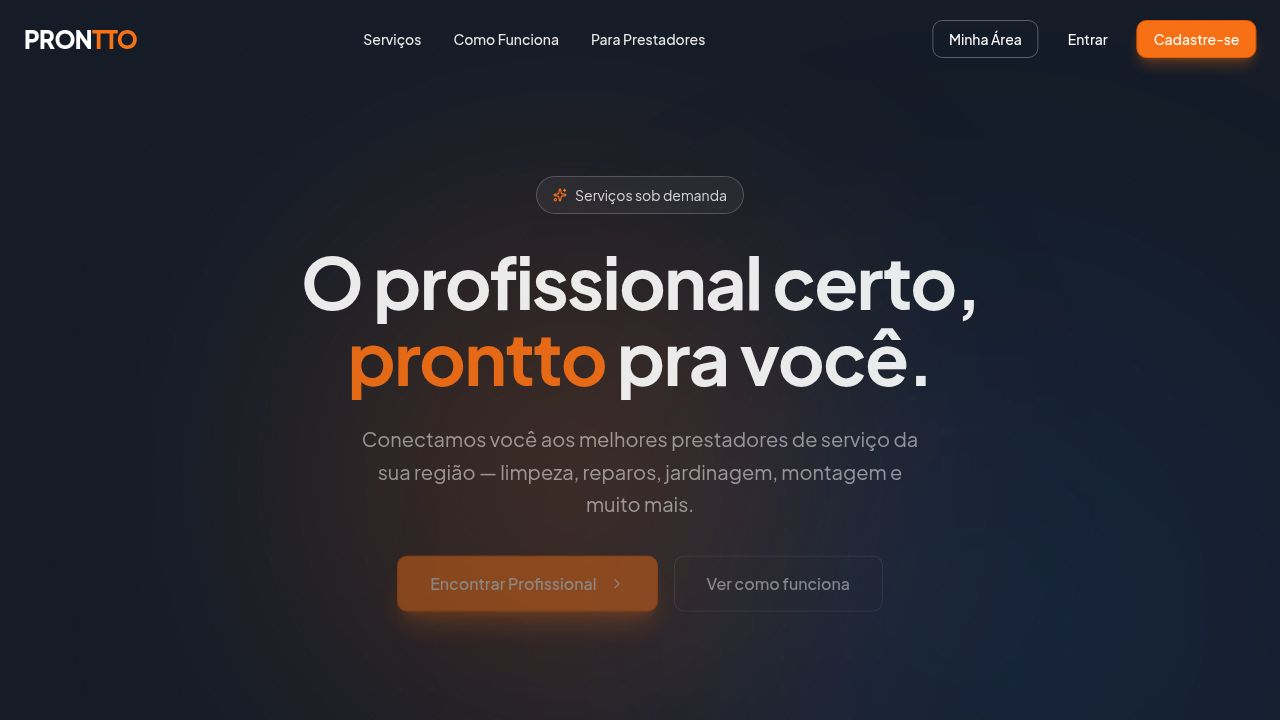
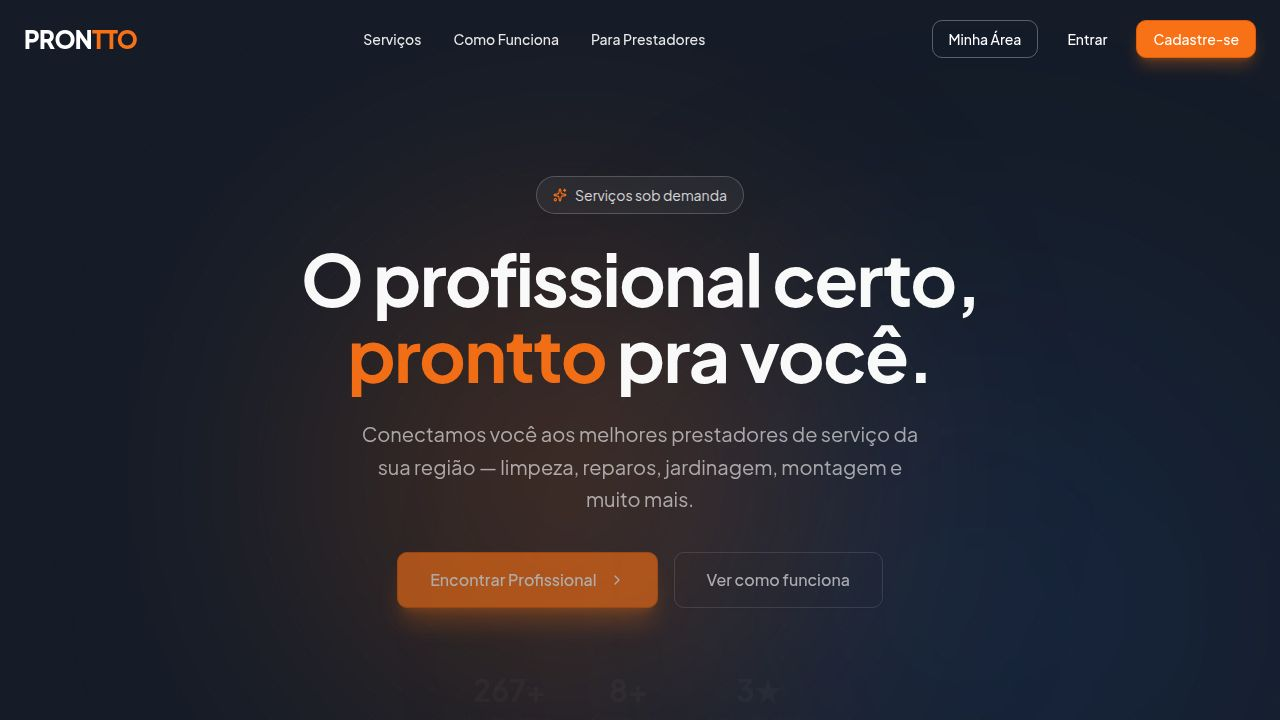
Fix visual display issues and improve content loading
Update styling to ensure proper element visibility and replace animation logic to guarantee content appears reliably across different viewing environments.

Replit-Commit-Author: Agent
Replit-Commit-Session-Id: 558db3ce-3680-479f-ba60-3f320bbbae2e
Replit-Commit-Checkpoint-Type: full_checkpoint
Replit-Commit-Event-Id: 590d8eed-9360-4dd3-8434-40d22314ec67
Replit-Commit-Screenshot-Url: https://storage.googleapis.com/screenshot-production-us-central1/5fef42bf-be2e-4718-be01-6eaf98c8df3b/558db3ce-3680-479f-ba60-3f320bbbae2e/8e5O3KY
Replit-Helium-Checkpoint-Created: true

diff --git a/artifacts/prontto/src/pages/home.tsx b/artifacts/prontto/src/pages/home.tsx
@@ -1,4 +1,4 @@
-import { useState, useEffect, useRef, useCallback } from "react";
+import { useState, useEffect, useRef, useCallback, type ReactNode } from "react";
 import {
   motion,
   AnimatePresence,
@@ -333,6 +333,37 @@ const SCENES = [
   },
 ];
 
+// ─── Scroll-event FadeIn (no IntersectionObserver — works in all iframes) ────
+type FadeDir = "up" | "left" | "right" | "none";
+function FadeIn({
+  children, className, delay = 0, dir = "up",
+}: { children: ReactNode; className?: string; delay?: number; dir?: FadeDir }) {
+  const ref = useRef<HTMLDivElement>(null);
+  const [show, setShow] = useState(false);
+  useEffect(() => {
+    const el = ref.current;
+    if (!el) return;
+    const check = () => {
+      if (el.getBoundingClientRect().top < window.innerHeight + 80) setShow(true);
+    };
+    check();
+    window.addEventListener("scroll", check, { passive: true });
+    return () => window.removeEventListener("scroll", check);
+  }, []);
+  const hidden: Record<string, number> =
+    dir === "left" ? { opacity: 0, x: -40, y: 0 }
+    : dir === "right" ? { opacity: 0, x: 40, y: 0 }
+    : dir === "none" ? { opacity: 0, x: 0, y: 0 }
+    : { opacity: 0, x: 0, y: 36 };
+  const visible = { opacity: 1, x: 0, y: 0 };
+  return (
+    <motion.div ref={ref} initial={hidden} animate={show ? visible : hidden}
+      transition={{ duration: 0.65, delay, ease: "easeOut" }} className={className}>
+      {children}
+    </motion.div>
+  );
+}
+
 // Simple piecewise-linear interpolation — no MotionValue needed
 function lerp(v: number, input: number[], output: number[]): number {
   if (v <= input[0]) return output[0];
@@ -530,7 +561,7 @@ export function Home() {
   };
 
   return (
-    <div className="min-h-[100dvh] flex flex-col font-sans text-secondary overflow-x-hidden">
+    <div className="min-h-[100dvh] flex flex-col font-sans text-secondary" style={{ overflowX: "clip" }}>
 
       {/* ── HEADER ── */}
       <header className={`fixed top-0 left-0 right-0 z-50 transition-all duration-500 ${scrolled ? "bg-white/95 backdrop-blur-md shadow-sm py-3" : "bg-transparent py-5"}`}>
@@ -653,25 +684,17 @@ export function Home() {
         {/* ── SERVICES ── */}
         <section id="servicos" className="py-28 bg-background">
           <div className="container mx-auto px-4 md:px-6">
-            <motion.div initial={{ opacity: 0, y: 40 }} whileInView={{ opacity: 1, y: 0 }} viewport={{ once: true, amount: 0 }} transition={{ duration: 0.7 }}
-              className="text-center max-w-2xl mx-auto mb-16">
+            <FadeIn className="text-center max-w-2xl mx-auto mb-16">
               <span className="text-primary text-sm font-semibold uppercase tracking-widest">Categorias</span>
               <h2 className="text-3xl md:text-4xl font-bold mt-3 mb-4 text-secondary">Serviços para todas as suas necessidades</h2>
               <p className="text-lg text-muted-foreground">De pequenos reparos a grandes projetos, encontre o profissional ideal.</p>
-            </motion.div>
+            </FadeIn>
 
             <div className="grid grid-cols-2 md:grid-cols-4 gap-4 md:gap-5">
-              {services.map((service, index) => {
-                const row = Math.floor(index / 4);
-                const col = index % 4;
-                return (
-                  <motion.div key={service.name}
-                    initial={{ opacity: 0, y: 40 + row * 10, x: (col - 1.5) * 10 }}
-                    whileInView={{ opacity: 1, y: 0, x: 0 }}
-                    viewport={{ once: true, amount: 0 }}
-                    transition={{ duration: 0.55, delay: index * 0.07, ease: "easeOut" }}
-                    whileHover={{ y: -6, transition: { duration: 0.2 } }}>
-                    <Card className={`group cursor-pointer border-border/40 bg-white hover:shadow-xl transition-all duration-300 ${service.border}`}>
+              {services.map((service, index) => (
+                <FadeIn key={service.name} delay={index * 0.06}>
+                  <motion.div whileHover={{ y: -6, transition: { duration: 0.2 } }} className="h-full">
+                    <Card className={`group cursor-pointer border-border/40 bg-white hover:shadow-xl transition-all duration-300 h-full ${service.border}`}>
                       <CardContent className="p-6 flex flex-col items-center text-center gap-4">
                         <motion.div className={`w-16 h-16 rounded-2xl flex items-center justify-center ${service.color}`}
                           whileHover={{ rotate: [0, -10, 10, 0], scale: 1.1 }} transition={{ duration: 0.4 }}>
@@ -681,15 +704,15 @@ export function Home() {
                       </CardContent>
                     </Card>
                   </motion.div>
-                );
-              })}
+                </FadeIn>
+              ))}
             </div>
 
-            <motion.div initial={{ opacity: 0, y: 20 }} whileInView={{ opacity: 1, y: 0 }} viewport={{ once: true }} transition={{ duration: 0.5, delay: 0.4 }} className="mt-12 text-center">
+            <FadeIn className="mt-12 text-center" delay={0.3}>
               <Button variant="outline" className="rounded-[10px] gap-2 hover:border-primary hover:text-primary transition-colors">
                 Ver todas as categorias <ArrowRight size={16} />
               </Button>
-            </motion.div>
+            </FadeIn>
           </div>
         </section>
 
@@ -697,32 +720,25 @@ export function Home() {
         <section id="como-funciona" className="py-28 bg-secondary relative overflow-hidden">
           <div className="absolute inset-0 opacity-[0.04]" style={{ backgroundImage: "radial-gradient(circle, white 1px, transparent 1px)", backgroundSize: "28px 28px" }} />
           <div className="container mx-auto px-4 md:px-6 relative z-10">
-            <motion.div initial={{ opacity: 0, y: 40 }} whileInView={{ opacity: 1, y: 0 }} viewport={{ once: true, amount: 0 }} transition={{ duration: 0.7 }}
-              className="text-center max-w-2xl mx-auto mb-20">
+            <FadeIn className="text-center max-w-2xl mx-auto mb-20">
               <span className="text-primary text-sm font-semibold uppercase tracking-widest">Como Funciona</span>
               <h2 className="text-3xl md:text-4xl font-bold mt-3 mb-4 text-white">Simples, rápido e seguro.</h2>
               <p className="text-lg text-white/60">Contratar um profissional nunca foi tão fácil. São apenas três passos.</p>
-            </motion.div>
+            </FadeIn>
 
             <div className="grid md:grid-cols-3 gap-8 relative">
-              <div className="hidden md:block absolute top-[52px] left-[calc(16.66%+40px)] right-[calc(16.66%+40px)] h-[2px] overflow-hidden">
-                <motion.div initial={{ scaleX: 0 }} whileInView={{ scaleX: 1 }} viewport={{ once: true, amount: 0 }} transition={{ duration: 1.2, delay: 0.5, ease: "easeInOut" }}
-                  className="h-full bg-gradient-to-r from-primary/40 via-primary to-primary/40 origin-left" />
+              <div className="hidden md:block absolute top-[52px] left-[calc(16.66%+40px)] right-[calc(16.66%+40px)] h-[2px] bg-white/10 rounded-full overflow-hidden">
+                <div className="h-full bg-gradient-to-r from-primary/40 via-primary to-primary/40" />
               </div>
               {steps.map((step, index) => (
-                <motion.div key={step.title}
-                  initial={{ opacity: 0, y: 50 }} whileInView={{ opacity: 1, y: 0 }} viewport={{ once: true, amount: 0 }}
-                  transition={{ duration: 0.65, delay: index * 0.2, ease: "easeOut" }}
-                  className="relative z-10 flex flex-col items-center text-center gap-5">
-                  <motion.div className="w-24 h-24 rounded-full bg-white/5 border-2 border-white/10 flex items-center justify-center text-primary relative"
-                    whileInView={{ borderColor: ["rgba(255,255,255,0.1)", "rgba(249,112,21,0.6)", "rgba(255,255,255,0.2)"] }}
-                    transition={{ duration: 1.5, delay: index * 0.25 + 0.4 }} viewport={{ once: true }}>
+                <FadeIn key={step.title} delay={index * 0.18} className="relative z-10 flex flex-col items-center text-center gap-5">
+                  <div className="w-24 h-24 rounded-full bg-white/5 border-2 border-primary/40 flex items-center justify-center text-primary relative">
                     <step.icon size={36} />
                     <span className="absolute -top-2 -right-2 w-7 h-7 rounded-full bg-primary text-white text-xs font-bold flex items-center justify-center">{step.number}</span>
-                  </motion.div>
+                  </div>
                   <h3 className="text-xl font-bold text-white">{step.title}</h3>
                   <p className="text-white/55 leading-relaxed max-w-[260px]">{step.desc}</p>
-                </motion.div>
+                </FadeIn>
               ))}
             </div>
           </div>
@@ -736,40 +752,35 @@ export function Home() {
             </svg>
           </div>
           <div className="container mx-auto px-4 md:px-6 pt-10">
-            <motion.div initial={{ opacity: 0, y: 40 }} whileInView={{ opacity: 1, y: 0 }} viewport={{ once: true, amount: 0 }} transition={{ duration: 0.7 }}
-              className="text-center max-w-2xl mx-auto mb-16">
+            <FadeIn className="text-center max-w-2xl mx-auto mb-16">
               <span className="text-primary text-sm font-semibold uppercase tracking-widest">Depoimentos</span>
               <h2 className="text-3xl md:text-4xl font-bold mt-3 mb-4 text-secondary">Quem usa, recomenda.</h2>
               <p className="text-lg text-muted-foreground">Milhares de clientes satisfeitos com os serviços prestados pela nossa comunidade.</p>
-            </motion.div>
+            </FadeIn>
             <div className="grid md:grid-cols-3 gap-6">
               {reviews.map((review, index) => (
-                <motion.div key={index}
-                  initial={{ opacity: 0, x: index === 0 ? -40 : index === 2 ? 40 : 0, y: index === 1 ? 40 : 0 }}
-                  whileInView={{ opacity: 1, x: 0, y: 0 }} viewport={{ once: true, amount: 0 }}
-                  transition={{ duration: 0.65, delay: index * 0.15, ease: "easeOut" }}
-                  whileHover={{ y: -6, transition: { duration: 0.2 } }}>
-                  <Card className="h-full bg-white border-border/40 hover:shadow-xl hover:border-primary/20 transition-all duration-300">
-                    <CardContent className="p-8 flex flex-col gap-5">
-                      <div className="flex gap-1">
-                        {Array.from({ length: review.rating }).map((_, i) => (
-                          <motion.div key={i} initial={{ opacity: 0, scale: 0 }} whileInView={{ opacity: 1, scale: 1 }} viewport={{ once: true }}
-                            transition={{ delay: index * 0.15 + i * 0.08 + 0.3, type: "spring", stiffness: 300 }}>
-                            <Star size={16} className="text-primary fill-primary" />
-                          </motion.div>
-                        ))}
-                      </div>
-                      <p className="text-secondary/75 leading-relaxed flex-1 text-[15px]">"{review.text}"</p>
-                      <div className="flex items-center gap-3 pt-2 border-t border-border/50">
-                        <div className="w-10 h-10 bg-primary/10 rounded-full flex items-center justify-center font-bold text-primary text-sm shrink-0">{review.name.charAt(0)}</div>
-                        <div>
-                          <p className="font-bold text-sm text-secondary">{review.name}</p>
-                          <p className="text-xs text-muted-foreground">{review.city}</p>
+                <FadeIn key={index} delay={index * 0.15}
+                  dir={index === 0 ? "left" : index === 2 ? "right" : "up"}>
+                  <motion.div whileHover={{ y: -6, transition: { duration: 0.2 } }} className="h-full">
+                    <Card className="h-full bg-white border-border/40 hover:shadow-xl hover:border-primary/20 transition-all duration-300">
+                      <CardContent className="p-8 flex flex-col gap-5">
+                        <div className="flex gap-1">
+                          {Array.from({ length: review.rating }).map((_, i) => (
+                            <Star key={i} size={16} className="text-primary fill-primary" />
+                          ))}
                         </div>
-                      </div>
-                    </CardContent>
-                  </Card>
-                </motion.div>
+                        <p className="text-secondary/75 leading-relaxed flex-1 text-[15px]">"{review.text}"</p>
+                        <div className="flex items-center gap-3 pt-2 border-t border-border/50">
+                          <div className="w-10 h-10 bg-primary/10 rounded-full flex items-center justify-center font-bold text-primary text-sm shrink-0">{review.name.charAt(0)}</div>
+                          <div>
+                            <p className="font-bold text-sm text-secondary">{review.name}</p>
+                            <p className="text-xs text-muted-foreground">{review.city}</p>
+                          </div>
+                        </div>
+                      </CardContent>
+                    </Card>
+                  </motion.div>
+                </FadeIn>
               ))}
             </div>
           </div>
@@ -782,8 +793,7 @@ export function Home() {
           <motion.div animate={{ rotate: -360 }} transition={{ duration: 35, repeat: Infinity, ease: "linear" }}
             className="absolute -bottom-24 -left-24 w-[400px] h-[400px] rounded-full border border-white/10 opacity-30" />
           <div className="container mx-auto px-4 md:px-6 relative z-10">
-            <motion.div initial={{ opacity: 0, scale: 0.9, y: 30 }} whileInView={{ opacity: 1, scale: 1, y: 0 }} viewport={{ once: true, amount: 0 }} transition={{ duration: 0.8, ease: "easeOut" }}
-              className="max-w-4xl mx-auto text-center flex flex-col items-center gap-8">
+            <FadeIn dir="none" className="max-w-4xl mx-auto text-center flex flex-col items-center gap-8">
               <span className="inline-block px-4 py-1.5 rounded-full bg-white/20 text-white text-sm font-semibold">Para Prestadores</span>
               <h2 className="text-3xl md:text-5xl font-bold text-white leading-tight">É profissional?<br />Aumente sua renda!</h2>
               <p className="text-lg md:text-xl text-white/85 max-w-2xl leading-relaxed">
@@ -806,7 +816,7 @@ export function Home() {
                   </div>
                 ))}
               </div>
-            </motion.div>
+            </FadeIn>
           </div>
         </section>
       </main>
@@ -814,8 +824,7 @@ export function Home() {
       {/* ── FOOTER ── */}
       <footer className="bg-secondary pt-20 pb-10 text-white/60">
         <div className="container mx-auto px-4 md:px-6">
-          <motion.div initial={{ opacity: 0, y: 30 }} whileInView={{ opacity: 1, y: 0 }} viewport={{ once: true }} transition={{ duration: 0.6 }}
-            className="grid grid-cols-2 md:grid-cols-4 lg:grid-cols-5 gap-8 mb-16">
+          <FadeIn className="grid grid-cols-2 md:grid-cols-4 lg:grid-cols-5 gap-8 mb-16">
             <div className="col-span-2 lg:col-span-2">
               <span className="text-3xl font-extrabold tracking-tight text-white block mb-5">PRON<span className="text-primary">TTO</span></span>
               <p className="mb-6 max-w-sm leading-relaxed">O marketplace de serviços domésticos que conecta você aos melhores profissionais da sua região.</p>
@@ -832,7 +841,7 @@ export function Home() {
                 </ul>
               </div>
             ))}
-          </motion.div>
+          </FadeIn>
           <div className="border-t border-white/10 pt-8 flex flex-col md:flex-row justify-between items-center gap-4">
             <p className="text-sm">&copy; {new Date().getFullYear()} Prontto. Todos os direitos reservados.</p>
             <div className="flex items-center gap-3">